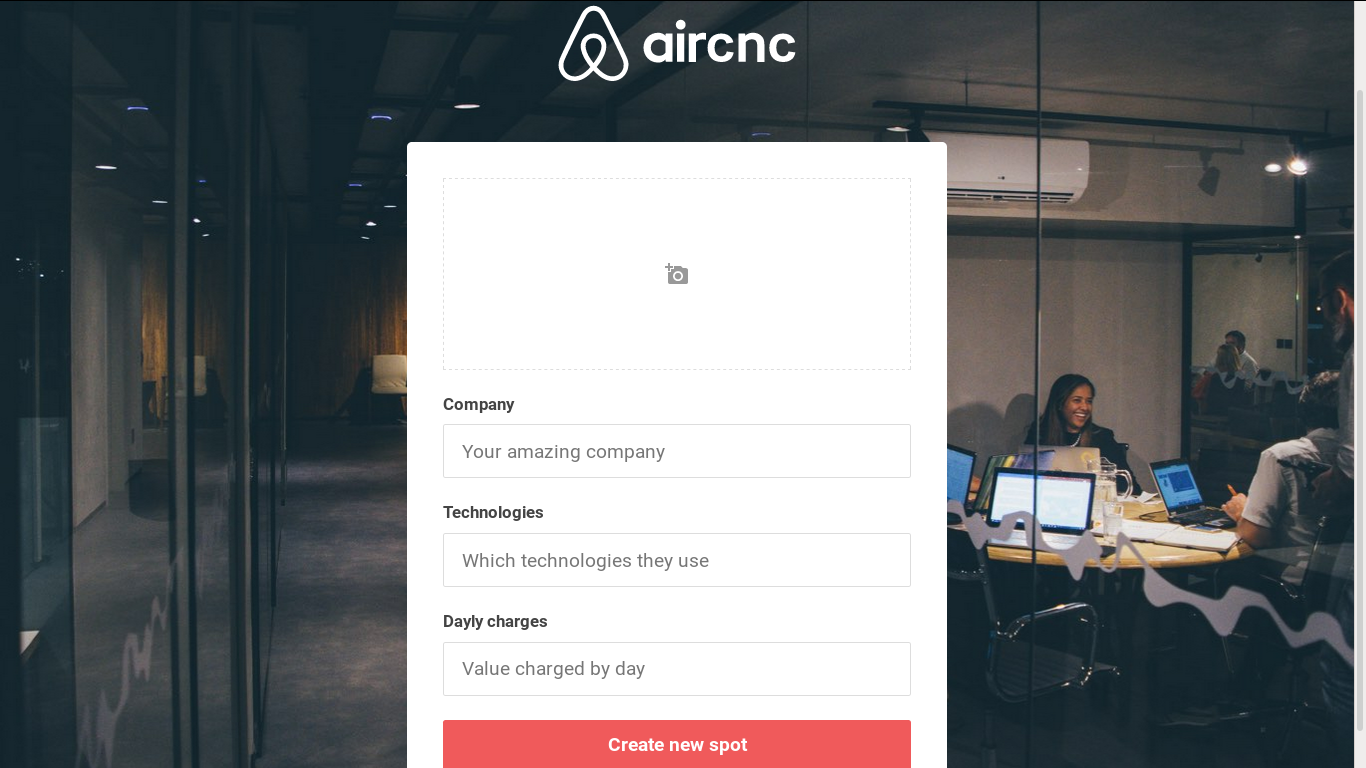
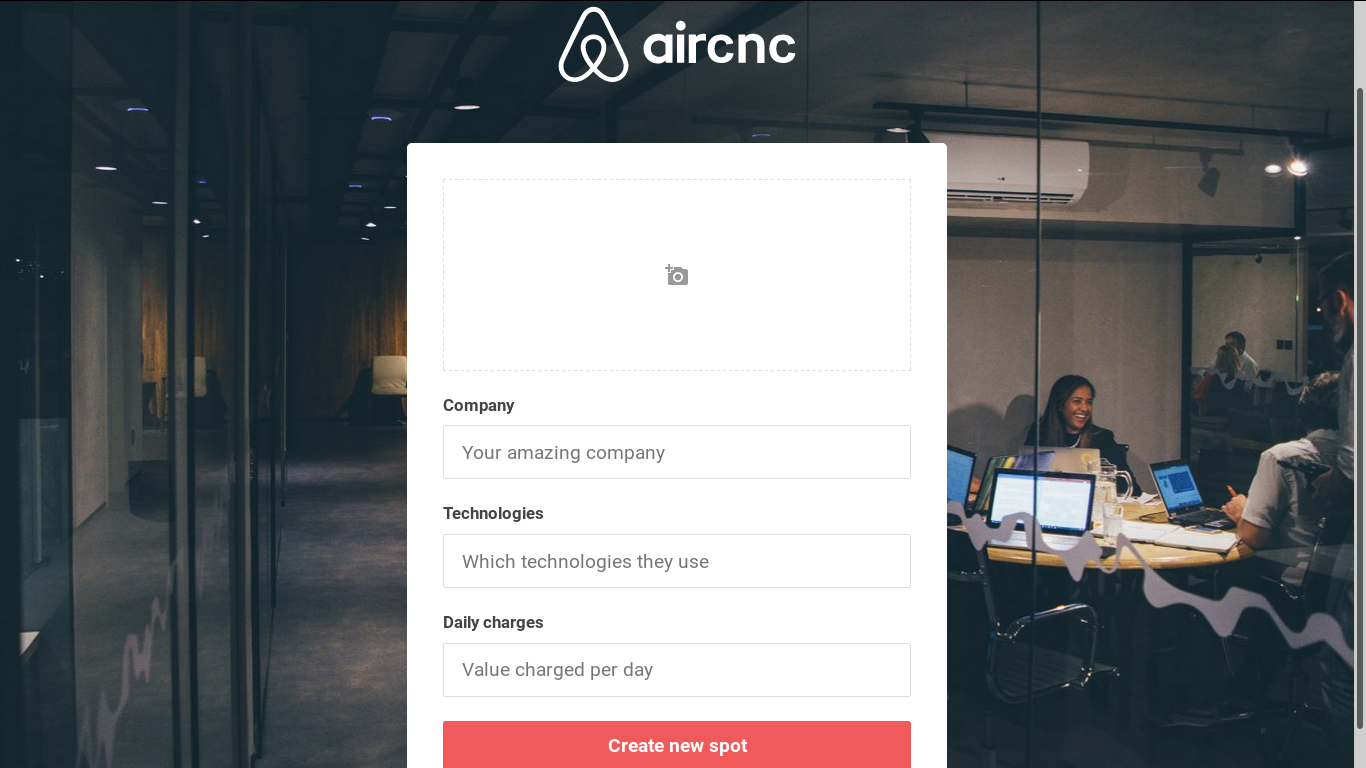
Some typos fix

diff --git a/frontend/src/pages/Spot/Spot.js b/frontend/src/pages/Spot/Spot.js
@@ -62,10 +62,10 @@ export default function Spot({ history }) {
         onChange={e => setTechs(e.target.value)}
       />
 
-      <label htmlFor="price">Dayly charges</label>
+      <label htmlFor="price">Daily charges</label>
       <input 
         id="price"
-        placeholder="Value charged by day"
+        placeholder="Value charged per day"
         value={price}
         onChange={e => setPrice(e.target.value)}
       />
